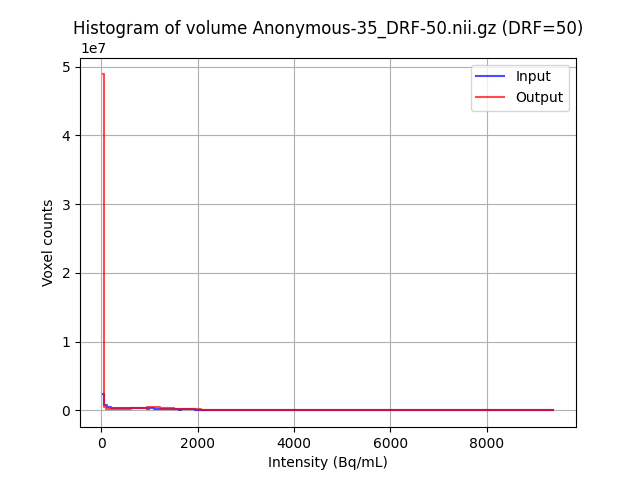
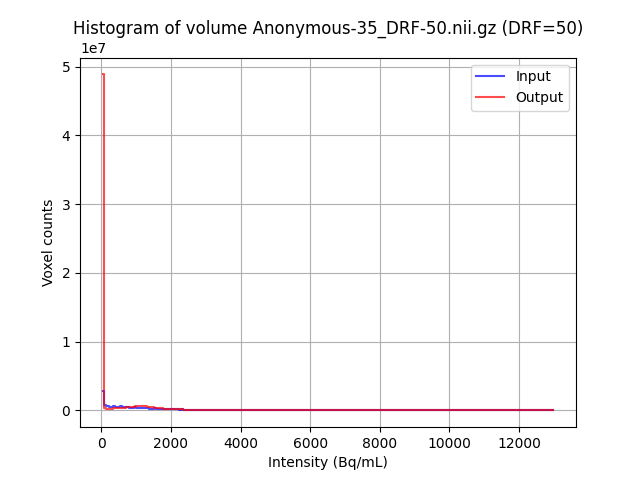
running final quadra with global percentiles

diff --git a/train.py b/train.py
@@ -5,7 +5,7 @@ Minimal training + validation script for low-dose PET.
 Assumptions:
 - Input data is located under:
   /root/PET_LOWDOSE/TRAINING_DATA/Bern-Inselspital-2022/all_subjects
-  Each patient folder contains two subfolders:
+  Each patient folder contains subfolders:
     - "1-10 dose"  or other DRF (input)
     - "Full_dose"  (target)
 - Each subfolder contains a DICOM series (Siemens .IMA files). We read the first series found.
@@ -24,6 +24,7 @@ import argparse
 import re
 import csv
 from dataclasses import dataclass
+import json
 from typing import List, Tuple, Dict, Optional
 from tqdm import tqdm
 
@@ -56,13 +57,14 @@ OUTPUT_ROOT = "/root/PET_LOWDOSE/TRAINING_DATA/Bern-Inselspital-2022/output"
 BASE_DIR = os.path.dirname(__file__)
 FIG_DIR = os.path.join(BASE_DIR, "figures")
 MODEL_DIR = os.path.join(BASE_DIR, "trained-models")
+GLOBAL_PCT_FILE = os.path.join(BASE_DIR, "global_percentiles.json")
 
 MODEL_NAME = "nnformer"  ### choices: "DynUNet" or "nnFormer"
 PATCH_SIZE =   (96, 96, 96) # (64, 64, 64) (128, 128, 128) (80, 80, 80)
 # Slight overlap: stride < patch size; 80 gives 16 voxels overlap
 PATCH_STRIDE =   (80, 80, 80)  #(48, 48, 48) (96, 96, 96) (64, 64, 64)
 
-MAX_PATIENTS = 3  # None  ### set to an int to limit for quick tests
+MAX_PATIENTS = None  ### set to an int to limit for quick tests
 VAL_FRACTION = 0.05  
 RANDOM_SEED = 42
 
@@ -73,7 +75,7 @@ if MODEL_NAME.lower() == "nnformer":
     
 NUM_LAYERS = len(FILTERS)
 BATCH_SIZE = 8 
-EPOCHS = 3  ### 25 
+EPOCHS = 25  ###
 LR = 1e-4
 WEIGHT_DECAY = 1e-5
 
@@ -420,6 +422,79 @@ def minmax_percentile_scale(x: np.ndarray, p1: float, p99: float) -> np.ndarray:
     return y  ###np.clip(y, 0.0, 1.0, out=y)
 
 
+def _load_global_percentiles(path: str = GLOBAL_PCT_FILE) -> Optional[Tuple[float, float]]:
+    try:
+        if os.path.isfile(path):
+            with open(path, "r") as f:
+                obj = json.load(f)
+            p1 = float(obj.get("p_low"))
+            p99 = float(obj.get("p_high"))
+            return p1, p99
+    except Exception:
+        pass
+    return None
+
+
+def _save_global_percentiles(p1: float, p99: float, path: str = GLOBAL_PCT_FILE):
+    try:
+        with open(path, "w") as f:
+            json.dump({
+                "pct_low": PCT_LOW,
+                "pct_high": PCT_HIGH,
+                "p_low": float(p1),
+                "p_high": float(p99),
+                "source": "targets",
+            }, f)
+        print(f"Saved global percentiles to {path}: p{PCT_LOW}={p1:.6g}, p{PCT_HIGH}={p99:.6g}")
+    except Exception as e:
+        print(f"Warning: failed to save global percentiles: {e}")
+
+
+def compute_or_load_global_percentiles_from_training_targets(
+    entries: List["ZarrEntry"], 
+    cache_path: str = GLOBAL_PCT_FILE,
+    force_recompute: bool = False
+) -> Tuple[float, float]:
+    """Return global p0.1/p99.9 computed over training targets; cache to JSON.
+
+    If cache exists, load and return it. Otherwise compute from the training
+    target Zarr arrays and persist. Minimal error handling as requested.
+    """
+    cached = _load_global_percentiles(cache_path)
+    if cached is not None and not force_recompute:
+        return cached
+
+    # Gather values from training targets. To avoid excessive memory, subsample
+    # uniformly if needed (simple stride-based sampling). This keeps code simple
+    # while still reflecting the global distribution reasonably well.
+    samples: List[np.ndarray] = []
+    n_entries = max(1, len(entries))
+    step = 100  ### for downsampling
+
+    for e in tqdm(entries, desc="GlobalPercentiles", unit="entry", dynamic_ncols=True):
+        try:
+            zt = zarr.open(e.tg_path, mode="r")
+            a = np.asarray(zt[:], dtype=np.float32)
+            flat = a.ravel()
+            rand_offset = random.randint(0, step - 1)
+            flat = flat[rand_offset::step]
+            samples.append(flat)
+        except Exception as ex:
+            print(f"Warning: failed reading target for global percentiles {e.pid}: {ex}")
+
+    if not samples:
+        # Fallback to a safe default range if no data could be read
+        p1, p99 = 0.0, 1.0
+        _save_global_percentiles(p1, p99, cache_path)
+        return p1, p99
+
+    merged = np.concatenate(samples, axis=0)
+    p1 = float(np.percentile(merged, PCT_LOW))
+    p99 = float(np.percentile(merged, PCT_HIGH))
+    _save_global_percentiles(p1, p99, cache_path)
+    return p1, p99
+
+
 def find_patients(data_root: str) -> List[str]:
     pids = []
     for name in sorted(os.listdir(data_root)):
@@ -733,8 +808,12 @@ def load_patient_from_npy(npy_root: str, meta_idx: Dict[Tuple[str, str, str], Di
     return PatientItem(pid=pid, input_arr=in_vol, target_arr=tgt_vol, input_meta=in_meta, target_meta=tg_meta)
 
 
-def load_patient_from_zarr(zarr_root: str, meta_idx: Dict[Tuple[str, str, str], Dict], pid: str, drf: int) -> PatientItem:
-    """Load a patient input/target pair from Zarr, crop-align, and min-max scale via subject-level robust percentiles."""
+def load_patient_from_zarr(zarr_root: str, meta_idx: Dict[Tuple[str, str, str], Dict], pid: str, drf: int, *, global_p1: Optional[float] = None, global_p99: Optional[float] = None) -> PatientItem:
+    """Load a patient input/target pair from Zarr, crop-align, and min-max scale.
+
+    If global_p1/global_p99 are provided, use them for normalization; otherwise fall
+    back to subject-level robust percentiles (from metadata when available).
+    """
     in_path = os.path.join(zarr_root, f"{pid}__drf{drf}.zarr")
     tg_path = os.path.join(zarr_root, f"{pid}__full.zarr")
     if not (os.path.isdir(in_path) and os.path.isdir(tg_path)):
@@ -757,11 +836,15 @@ def load_patient_from_zarr(zarr_root: str, meta_idx: Dict[Tuple[str, str, str], 
     tg_key = ("target", pid, "full")
     in_rec = meta_idx.get(in_key, {})
     tg_rec = meta_idx.get(tg_key, {})
-    p1 = tg_rec.get("p1") if (tg_rec.get("p1") is not None) else in_rec.get("p1")
-    p99 = tg_rec.get("p99") if (tg_rec.get("p99") is not None) else in_rec.get("p99")
-    if p1 is None or p99 is None:
-        p1 = float(np.percentile(tgt_vol, PCT_LOW))
-        p99 = float(np.percentile(tgt_vol, PCT_HIGH))
+    if (global_p1 is not None) and (global_p99 is not None):
+        p1 = float(global_p1)
+        p99 = float(global_p99)
+    else:
+        p1 = tg_rec.get("p1") if (tg_rec.get("p1") is not None) else in_rec.get("p1")
+        p99 = tg_rec.get("p99") if (tg_rec.get("p99") is not None) else in_rec.get("p99")
+        if p1 is None or p99 is None:
+            p1 = float(np.percentile(tgt_vol, PCT_LOW))
+            p99 = float(np.percentile(tgt_vol, PCT_HIGH))
     in_vol = minmax_percentile_scale(in_vol, float(p1), float(p99)).astype(np.float32, copy=False)
     tgt_vol = minmax_percentile_scale(tgt_vol, float(p1), float(p99)).astype(np.float32, copy=False)
 
@@ -881,11 +964,13 @@ class LazyPatchDataset(Dataset):
     Normalizes using subject-level robust percentiles p1/p99 from metadata when available.
     """
 
-    def __init__(self, entries: List[NpyEntry], patch_size: Tuple[int, int, int], stride: Tuple[int, int, int], augment: bool = True):
+    def __init__(self, entries: List[NpyEntry], patch_size: Tuple[int, int, int], stride: Tuple[int, int, int], augment: bool = True, global_p1: Optional[float] = None, global_p99: Optional[float] = None):
         self.entries = entries
         self.patch_size = patch_size
         self.stride = stride
         self.augment = augment
+        self.global_p1 = float(global_p1) if (global_p1 is not None) else None
+        self.global_p99 = float(global_p99) if (global_p99 is not None) else None
 
         # Precompute patch coordinates for all entries using pair_shape
         self.index: List[Tuple[int, Tuple[int, int, int]]] = []  # (entry_idx, (z,y,x))
@@ -917,11 +1002,15 @@ class LazyPatchDataset(Dataset):
         xin = np.asarray(xi[z:z+pd, y:y+ph, x:x+pw])
         ygt = np.asarray(yi[z:z+pd, y:y+ph, x:x+pw])
 
-        # Subject-level robust min-max using shared p1/p99 (prefer target metadata)
-        p1 = e.tg_meta.get("p1") if (e.tg_meta.get("p1") is not None) else e.in_meta.get("p1")
-        p99 = e.tg_meta.get("p99") if (e.tg_meta.get("p99") is not None) else e.in_meta.get("p99")
-        p1 = float(p1 if p1 is not None else 0.0)
-        p99 = float(p99 if p99 is not None else 1.0)
+        # Global robust min–max if provided; otherwise subject-level from metadata
+        if (self.global_p1 is not None) and (self.global_p99 is not None):
+            p1 = self.global_p1
+            p99 = self.global_p99
+        else:
+            p1 = e.tg_meta.get("p1") if (e.tg_meta.get("p1") is not None) else e.in_meta.get("p1")
+            p99 = e.tg_meta.get("p99") if (e.tg_meta.get("p99") is not None) else e.in_meta.get("p99")
+            p1 = float(p1 if p1 is not None else 0.0)
+            p99 = float(p99 if p99 is not None else 1.0)
         xin = minmax_percentile_scale(xin, p1, p99)
         ygt = minmax_percentile_scale(ygt, p1, p99)
 
@@ -931,7 +1020,7 @@ class LazyPatchDataset(Dataset):
         if self.augment:
             xt, yt = random_augment(xt, yt)
 
-        # Return subject-level p1/p99 to support empty-patch skipping in the training loop.
+        # Return p1/p99 used (global or subject-level) for observability/debug.
         stats = torch.tensor([p1, p99], dtype=torch.float32)
 
         return xt, yt, stats
@@ -1146,9 +1235,6 @@ def train_and_validate(train_ds: PatchDataset, val_patients: List[PatientItem]):
 
             xb = xb.to(DEVICE, non_blocking=True)  # [B,C,D,H,W]
             yb = yb.to(DEVICE, non_blocking=True)
-
-            print(f"p99 for xb: {torch.max(xb).item()}, p99 for yb: {torch.max(yb).item()}")
-            print(f"p1 for xb: {torch.min(xb).item()}, p1 for yb: {torch.min(yb).item()}")
 
             # Skip empty patches, but keep some to ensure it works on inference
             with torch.no_grad():
@@ -1529,14 +1615,20 @@ def main():
     else:
         train_entries = build_zarr_entries(meta_idx, train_pids, args.drf, ZARR_ROOT)
 
-    # Compute and persist robust percentiles (0.1/99.9) for subjects so next runs use them
-    try:
-        _persist_percentiles_for_entries(train_entries + val_entries, META_CSV)
-    except Exception as ex:
-        print(f"Warning: failed to persist percentiles: {ex}")
+    # Global percentiles for normalization (computed from training targets, cached to JSON)
+    if args.validate:
+        gp = _load_global_percentiles(GLOBAL_PCT_FILE)
+        if gp is None:
+            print(f"Warning: global percentile file not found: {GLOBAL_PCT_FILE}. Using defaults (0,1).")
+            global_p1, global_p99 = 0.0, 1.0
+        else:
+            global_p1, global_p99 = gp
+    else:
+        global_p1, global_p99 = compute_or_load_global_percentiles_from_training_targets(
+            train_entries, GLOBAL_PCT_FILE, force_recompute = False)  ###
 
     if not args.validate:
-        train_ds = LazyPatchDataset(train_entries, PATCH_SIZE, PATCH_STRIDE, augment=True)
+        train_ds = LazyPatchDataset(train_entries, PATCH_SIZE, PATCH_STRIDE, augment=True, global_p1=global_p1, global_p99=global_p99)
         print(f"Train patches: {len(train_ds)} across {len(train_entries)} patients")
 
     # Build full volumes for validation (smaller set) just-in-time
@@ -1545,7 +1637,7 @@ def main():
     val_patients: List[PatientItem] = []
     for e in val_entries:
         try:
-            val_patients.append(load_patient_from_zarr(ZARR_ROOT, meta_idx, e.pid, args.drf))
+            val_patients.append(load_patient_from_zarr(ZARR_ROOT, meta_idx, e.pid, args.drf, global_p1=global_p1, global_p99=global_p99))
         except Exception as ex:
             print(f"Warning: skipping val {e.pid}: {ex}")
 

diff --git a/test.py b/test.py
@@ -21,6 +21,7 @@ import argparse
 from typing import Dict, List, Tuple
 
 import numpy as np
+import json
 import torch
 
 import SimpleITK as sitk
@@ -55,6 +56,7 @@ from train import (
     PCT_LOW,
     PCT_HIGH,
     MODEL_NAME,
+    GLOBAL_PCT_FILE,
 )
 
 
@@ -194,17 +196,29 @@ def main():
         return
 
     # MONAI sliding window inferer matching train.py validation overlap
-    inferer = SlidingWindowInferer(roi_size=PATCH_SIZE, sw_batch_size=1, overlap=0.75, mode="gaussian")  ###0.75
+    inferer = SlidingWindowInferer(roi_size=PATCH_SIZE, sw_batch_size=1, overlap=0.2, mode="gaussian")  ###0.75
+
+    # Load global normalization percentiles computed at training time
+    try:
+        with open(GLOBAL_PCT_FILE, "r") as f:
+            g = json.load(f)
+        p1_global = float(g["p_low"])
+        p99_global = float(g["p_high"])
+    except Exception:
+        raise RuntimeError(f"Global percentile file not found or invalid: {GLOBAL_PCT_FILE}")
 
     # Predict each file
     vis_patients: List[PatientItem] = []
     for (fname, row) in files:
         in_path = os.path.join(args.input_dir, fname)
         vol, meta = read_nifti(in_path)  # [D,H,W]
-        # Robust percentiles per subject consistent with train.py
-        p1 = float(np.percentile(vol, PCT_LOW))
-        p99 = float(np.percentile(vol, PCT_HIGH))
+        # Use global robust percentiles consistent with training normalization
+        p1 = p1_global
+        p99 = p99_global
         scale = float(max(1e-6, p99 - p1))
+        
+        print(f"Global p999: {p99_global}, p1: {p1_global}")
+        print(f"Patient p99: {np.percentile(vol, 99.9)}, p1: {np.percentile(vol, 0.1)}")
     
         # Min–max normalize to [0,1]
         vol_mm = minmax_percentile_scale(vol, p1, p99)

diff --git a/compare_metrics.py b/compare_metrics.py
@@ -67,6 +67,7 @@ if __name__ == "__main__":
     files = [
         "/root/PET_LOWDOSE/TRAINING_DATA/Bern-Inselspital-2022/output/metrics_summary_20251103_1041_drf50.csv",
         "/root/PET_LOWDOSE/TRAINING_DATA/Bern-Inselspital-2022/output/metrics_summary_dynunet_20251104_0830_drf50.csv",
+        "/root/PET_LOWDOSE/TRAINING_DATA/Bern-Inselspital-2022/output/metrics_summary_20251102_0009_drf4.csv"
     ]
     cols = ["model_ssim", "model_mse"]
     print_stats_for_files(files, cols)
